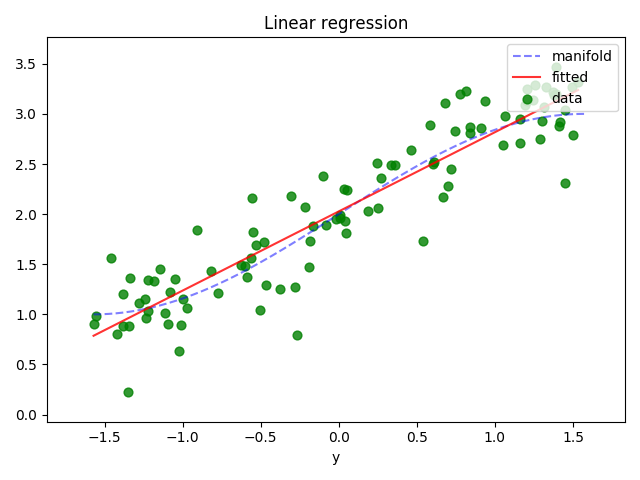
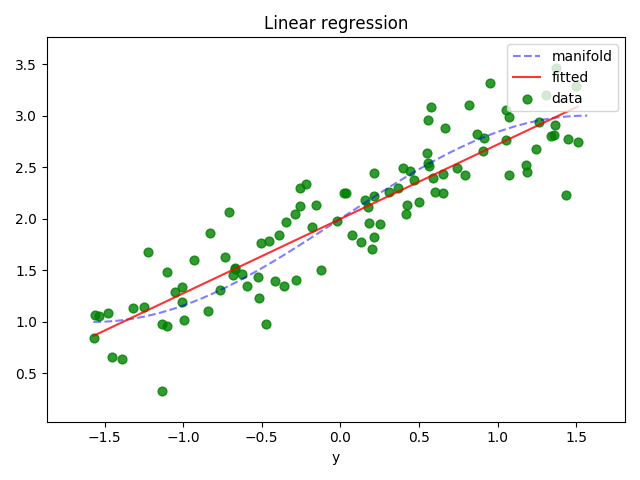
hee hee

diff --git a/linear_regression.py b/linear_regression.py
@@ -1,10 +1,11 @@
 import numpy as np
 from matplotlib import pyplot as plt
+from sklearn.linear_model import LinearRegression
 
 
 def generate_wave_set(n_support=1000, n_train=25, std=0.3):
     data = {}
-    data['support'] = np.linspace(-np.pi/2, np.pi/2, num=n_support)
+    data['support'] = np.linspace(-np.pi / 2, np.pi / 2, num=n_support)
     data['values'] = np.sin(data['support']) + 2
     data['x_train'] = np.sort(np.random.choice(data['support'], size=n_train, replace=True))
     data['y_train'] = np.sin(data['x_train']) + 2 + np.random.normal(0, std, size=data['x_train'].shape[0])
@@ -12,41 +13,29 @@ def generate_wave_set(n_support=1000, n_train=25, std=0.3):
 
 
 data = generate_wave_set(1000, 100)
-for i in range(10):
-    leftBorder = 10 * i
-    rightBorder = 10 * (i + 1)
-    testData = data['x_train'][leftBorder:rightBorder]
-    trainData = np.append(data['x_train'][0:leftBorder], data['x_train'][rightBorder:100])
-    yTrain = np.append(data['y_train'][0:leftBorder], data['y_train'][rightBorder:100])
-    X = np.array([np.ones(trainData.shape[0]), trainData]).T
-    w = np.dot(np.dot(np.linalg.inv(np.dot(X.T, X)), X.T), yTrain)
-    y_hat = np.dot(w, X.T)
-    print(len(y_hat))
-    yTested = data['y_train'][leftBorder:rightBorder]
-    yTrained = y_hat[leftBorder:rightBorder]
-    for j in range(10):
-        print(yTested[j] - yTrained[j])
-    plt.plot(trainData, y_hat, 'r+', alpha=0.8, label='fitted')
-    plt.show()
 
-# X = np.array([np.ones(data['x_train'].shape[0]), data['x_train']]).T
-#
-# w = np.dot(np.dot(np.linalg.inv(np.dot(X.T, X)), X.T), data['y_train'])
-#
-# y_hat = np.dot(w, X.T)
-# print(y_hat)
-# margin = 0.3
-# fig = plt.figure()
-# plt.plot(data['support'], data['values'], 'b--', alpha=0.5, label='manifold')
-# plt.scatter(data['x_train'], data['y_train'], 40, 'g', 'o', alpha=0.8, label='data')
-#
-# plt.plot(data['x_train'], y_hat, 'r', alpha=0.8, label='fitted')
-#
-# plt.xlim(data['x_train'].min() - margin, data['x_train'].max() + margin)
-# plt.ylim(data['y_train'].min() - margin, data['y_train'].max() + margin)
-# plt.legend(loc='upper right', prop={'size': 10})
-# plt.title('Linear regression')
-# plt.xlabel('x')
-# plt.xlabel('y')
-# plt.show()
-# fig.savefig('plot.png')
+X0 = np.array(data['x_train']).reshape((-1, 1))
+Y0 = np.array(data['y_train'])
+reg = LinearRegression().fit(X0, Y0)
+print(reg.score(X0, data['y_train']))
+
+X = np.array([np.ones(data['x_train'].shape[0]), data['x_train']]).T
+
+w = np.dot(np.dot(np.linalg.inv(np.dot(X.T, X)), X.T), data['y_train'])
+
+y_hat = np.dot(w, X.T)
+margin = 0.3
+fig = plt.figure()
+plt.plot(data['support'], data['values'], 'b--', alpha=0.5, label='manifold')
+plt.scatter(data['x_train'], data['y_train'], 40, 'g', 'o', alpha=0.8, label='data')
+
+plt.plot(data['x_train'], y_hat, 'r', alpha=0.8, label='fitted')
+
+plt.xlim(data['x_train'].min() - margin, data['x_train'].max() + margin)
+plt.ylim(data['y_train'].min() - margin, data['y_train'].max() + margin)
+plt.legend(loc='upper right', prop={'size': 10})
+plt.title('Linear regression')
+plt.xlabel('x')
+plt.xlabel('y')
+plt.show()
+fig.savefig('plot.png')
